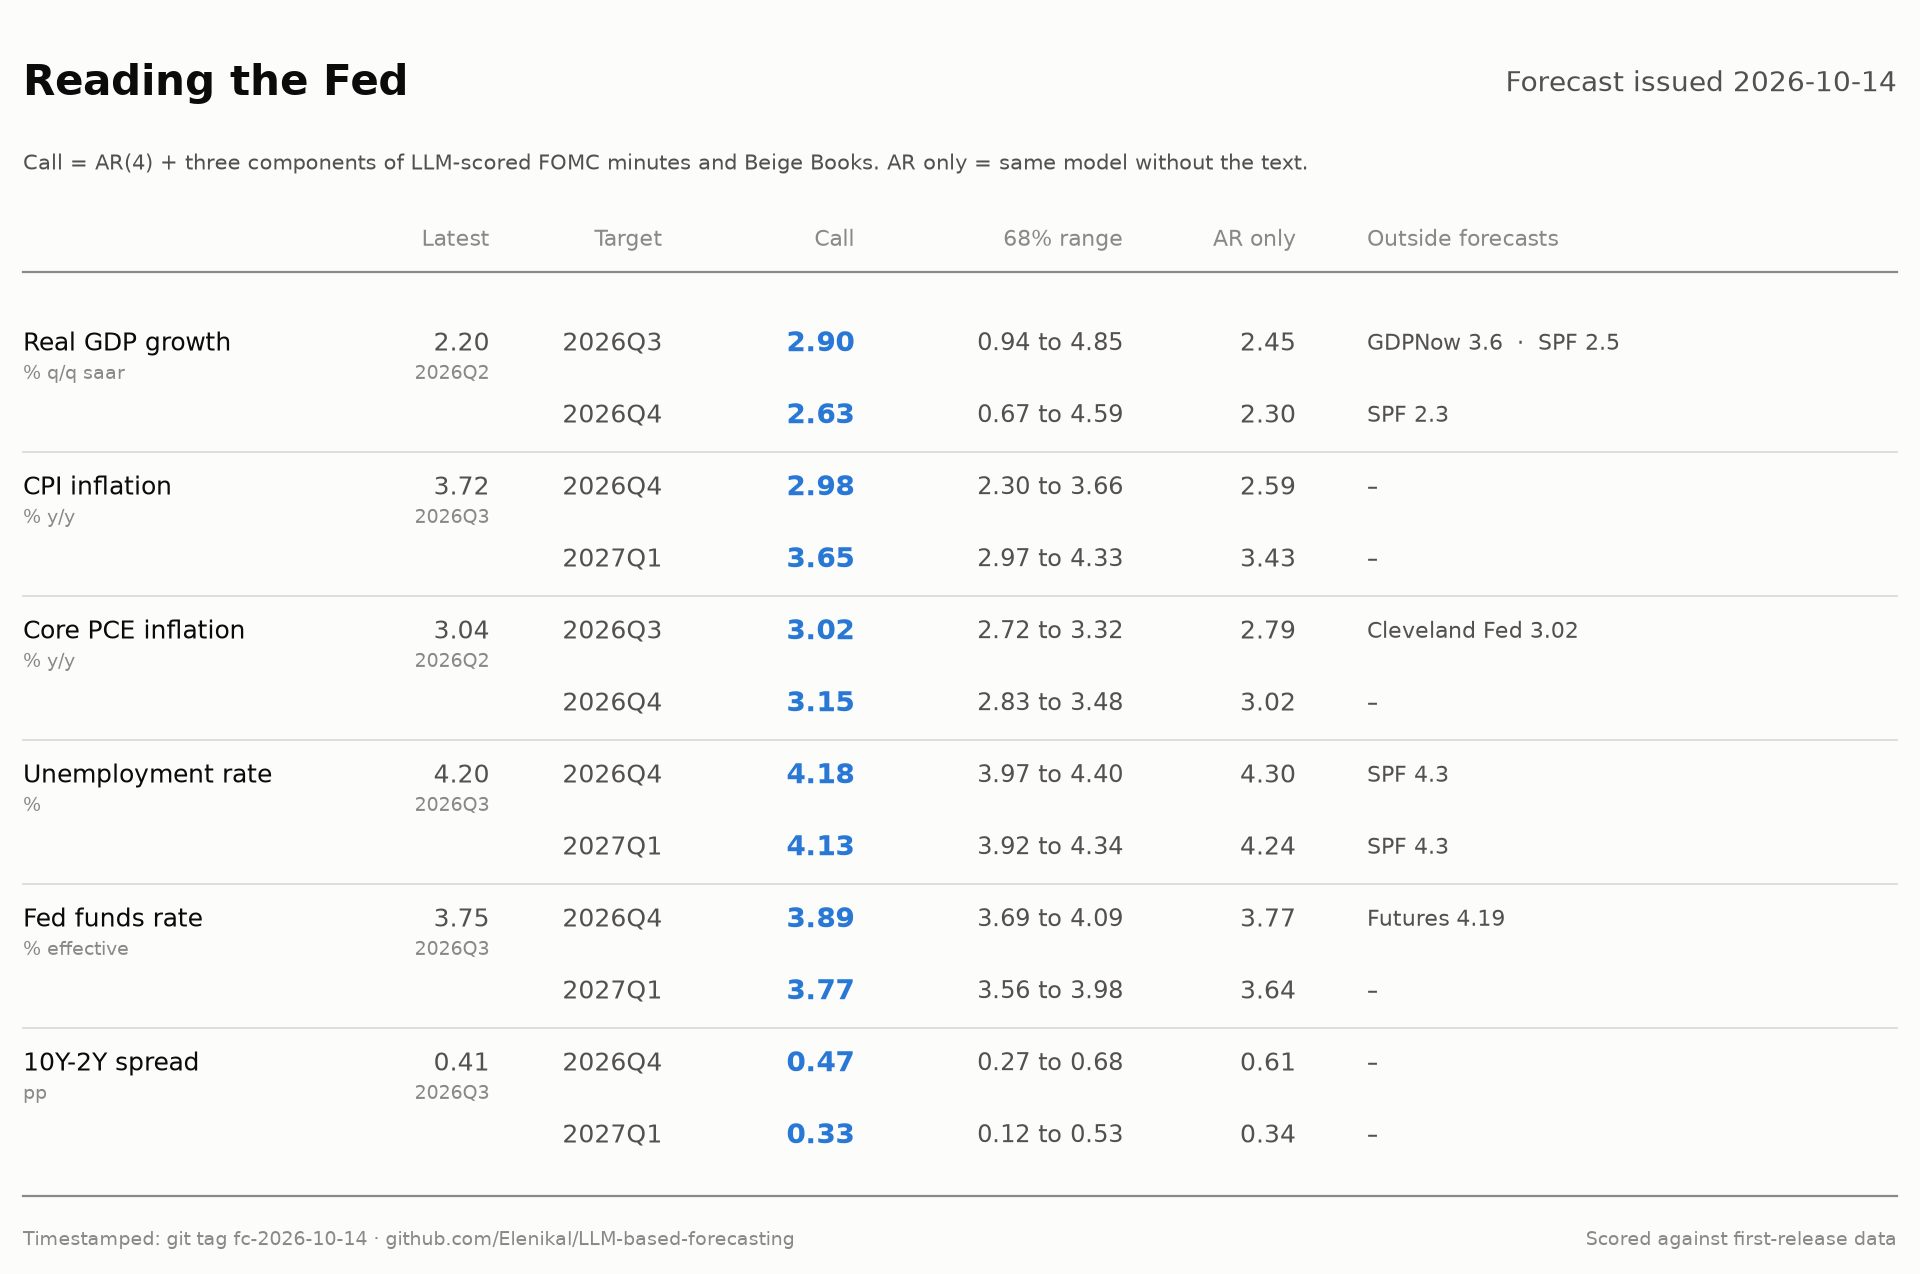
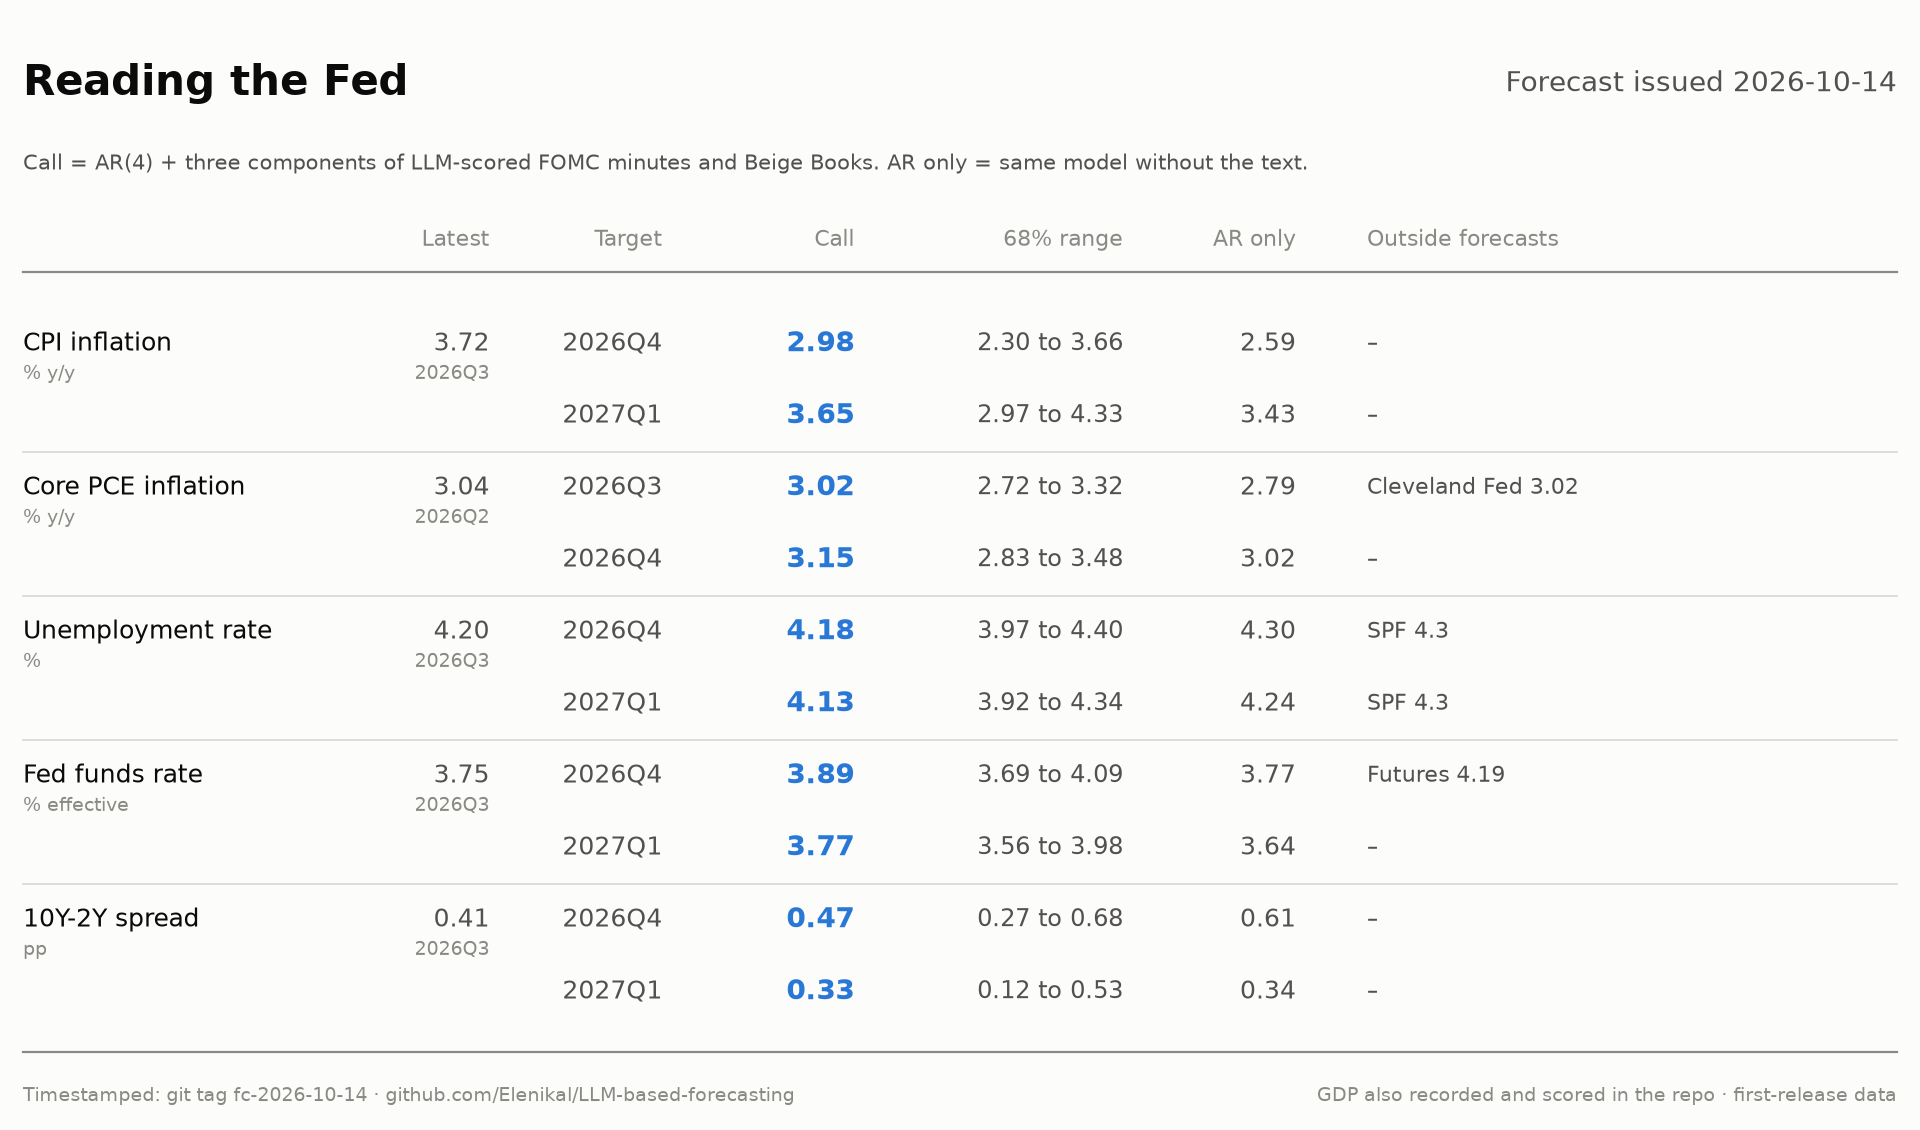
Declare headline set (inflation, unemployment, rates) before any outcome; GDP still recorded and scored

diff --git a/live/make_post.py b/live/make_post.py
@@ -24,6 +24,11 @@ import matplotlib.pyplot as plt
 import pandas as pd
 
 LIVE = Path(__file__).resolve().parent
+
+# Headline set, declared 2026-10-14 before any outcome: the variables where the
+# backtest and the COVID robustness check show value in the text. GDP is still
+# forecast, recorded and scored, but not headlined.
+HEADLINE = ["CPIAUCSL_yoy", "PCEPILFE_yoy", "UNRATE", "FEDFUNDS", "T10Y2Y"]
 REPO = "https://github.com/Elenikal/LLM-based-forecasting"
 
 INK, INK_2, INK_3 = "#0b0b0b", "#52514e", "#8a8984"
@@ -98,8 +103,8 @@ def table_png(rows: list[dict], bench: pd.DataFrame, issued: str, out: Path):
     ax.plot([0.012, 0.988], [y, y], color=INK_3, lw=0.8)
     ax.text(0.012, y - 0.22, f"Timestamped: git tag fc-{issued} · {REPO.removeprefix('https://')}",
             fontsize=7, color=INK_3, va="center")
-    ax.text(0.988, y - 0.22, "Scored against first-release data", fontsize=7, color=INK_3,
-            ha="right", va="center")
+    ax.text(0.988, y - 0.22, "GDP also recorded and scored in the repo · first-release data",
+            fontsize=7, color=INK_3, ha="right", va="center")
     fig.savefig(out, facecolor=SURFACE)
     plt.close(fig)
 
@@ -114,7 +119,8 @@ def main():
     out = LIVE / "posts" / issued
     out.mkdir(parents=True, exist_ok=True)
 
-    table_png(rec["forecasts"], bench, issued, out / "table.png")
+    rows = [r for r in rec["forecasts"] if r["variable"] in HEADLINE]
+    table_png(rows, bench, issued, out / "table.png")
 
     docs = rec["meta"]["latest_documents"]
     srcs = bench.drop_duplicates("source")

diff --git a/live/README.md b/live/README.md
@@ -20,6 +20,14 @@ edited after it is committed.
   Later documents use the same prompt, temperature 0.3 and 3 runs
   (`llm_scores_live.csv`, per-document detail in `doc_scores/`).
 
+## Headline set (declared 2026-10-14, before any outcome)
+
+Posts headline inflation (CPI, core PCE), unemployment, the fed funds rate and
+the 10Y–2Y spread: the variables where the corrected backtest and the COVID
+robustness check find value in the text. GDP is still forecast, recorded in
+`forecasts/` and graded by `scorecard.py`; it is not headlined, because the
+text adds nothing for output once the COVID quarters are controlled for.
+
 ## What is different in real time
 
 - **Ragged edge.** Each variable's window ends at its last complete quarter,
